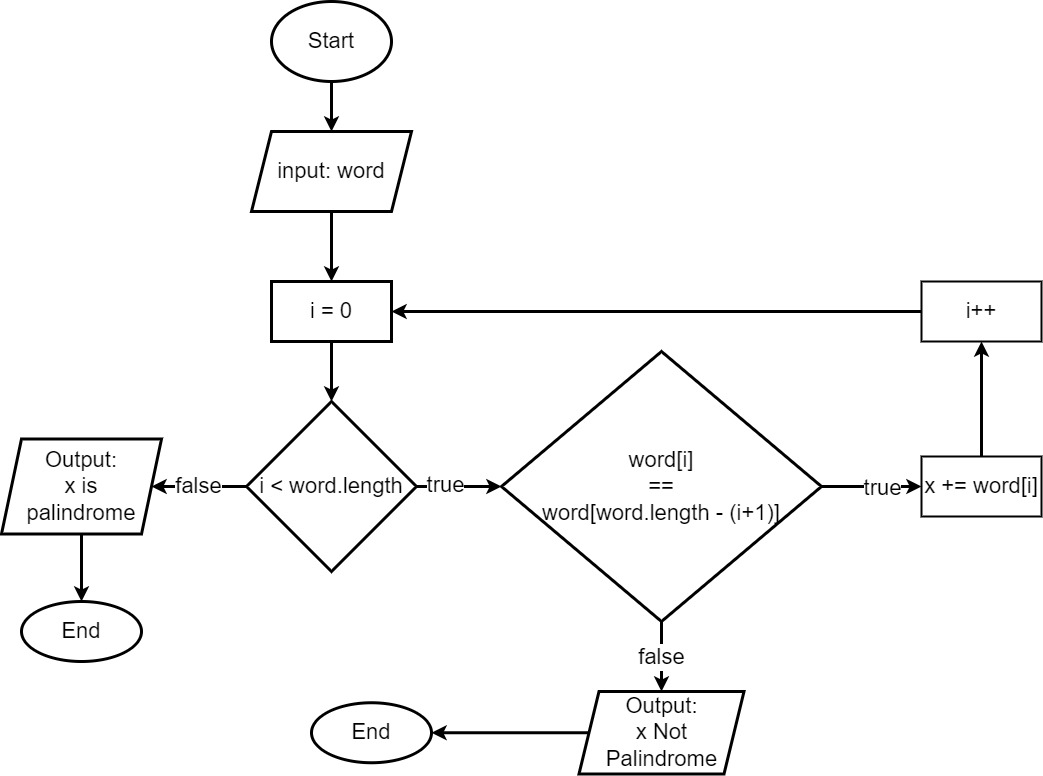
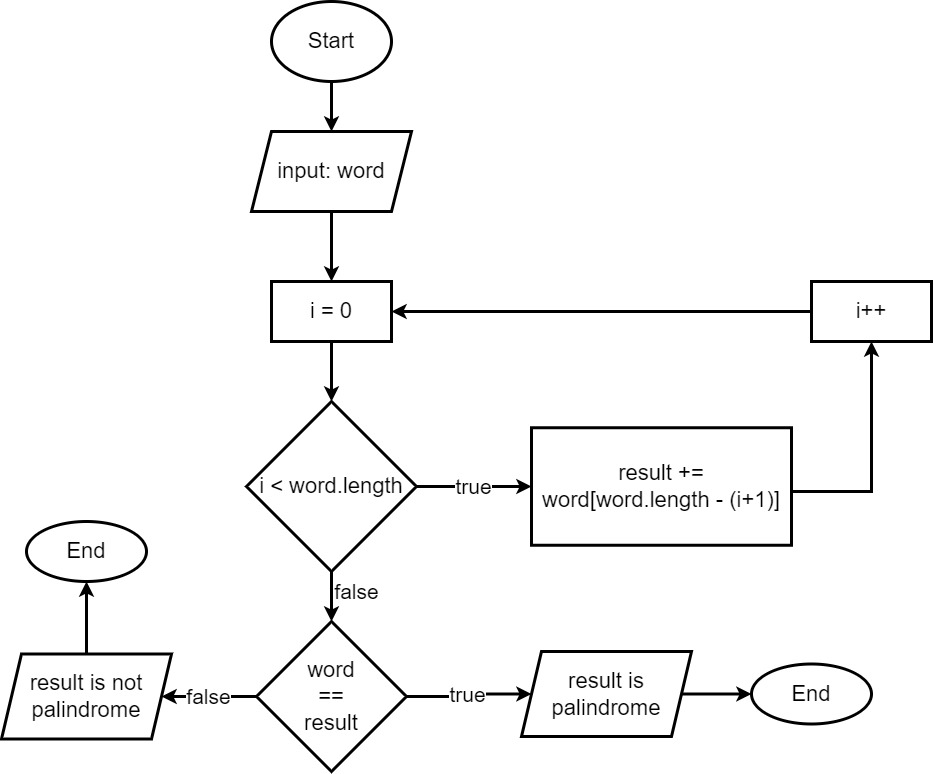
mengganti flowchart

diff --git a/soal-4.js b/soal-4.js
@@ -1,38 +1,15 @@
-//! cara pertama
-const palindrome = (word) => {
-  let isPalindrome = "";
-
-  if (word.length > 2) {
-    for (let i = 0; i < word.length; i++) {
-      if (word[i] == word[word.length - (i + 1)]) {
-        isPalindrome += word[i];
-      } else {
-        return "Not Palindrome";
-      }
-    }
-    return `${isPalindrome} is palindrome`;
-  } else {
-    return "Letters must be more than 2 characters";
-  }
-};
-
-//! cara kedua
 const palindrome2 = (word) => {
-  let isPalindrome = "";
+  let result = "";
 
   if (word.length > 2) {
     for (let i = 0; i < word.length; i++) {
-      isPalindrome += word[word.length - (i + 1)];
+      result += word[word.length - (i + 1)];
     }
   } else {
     return "Letters must be more than 2 characters";
   }
 
-  const result =
-    word == isPalindrome ? `${isPalindrome} is Palindrome` : `Not palindrome`;
-
-  return result;
+  return word == result ? `${result} is Palindrome` : `Not palindrome`;
 };
 
-console.log(palindrome("malam"));
-console.log(palindrome2("katak"));
+console.log(palindrome2("ada"));
